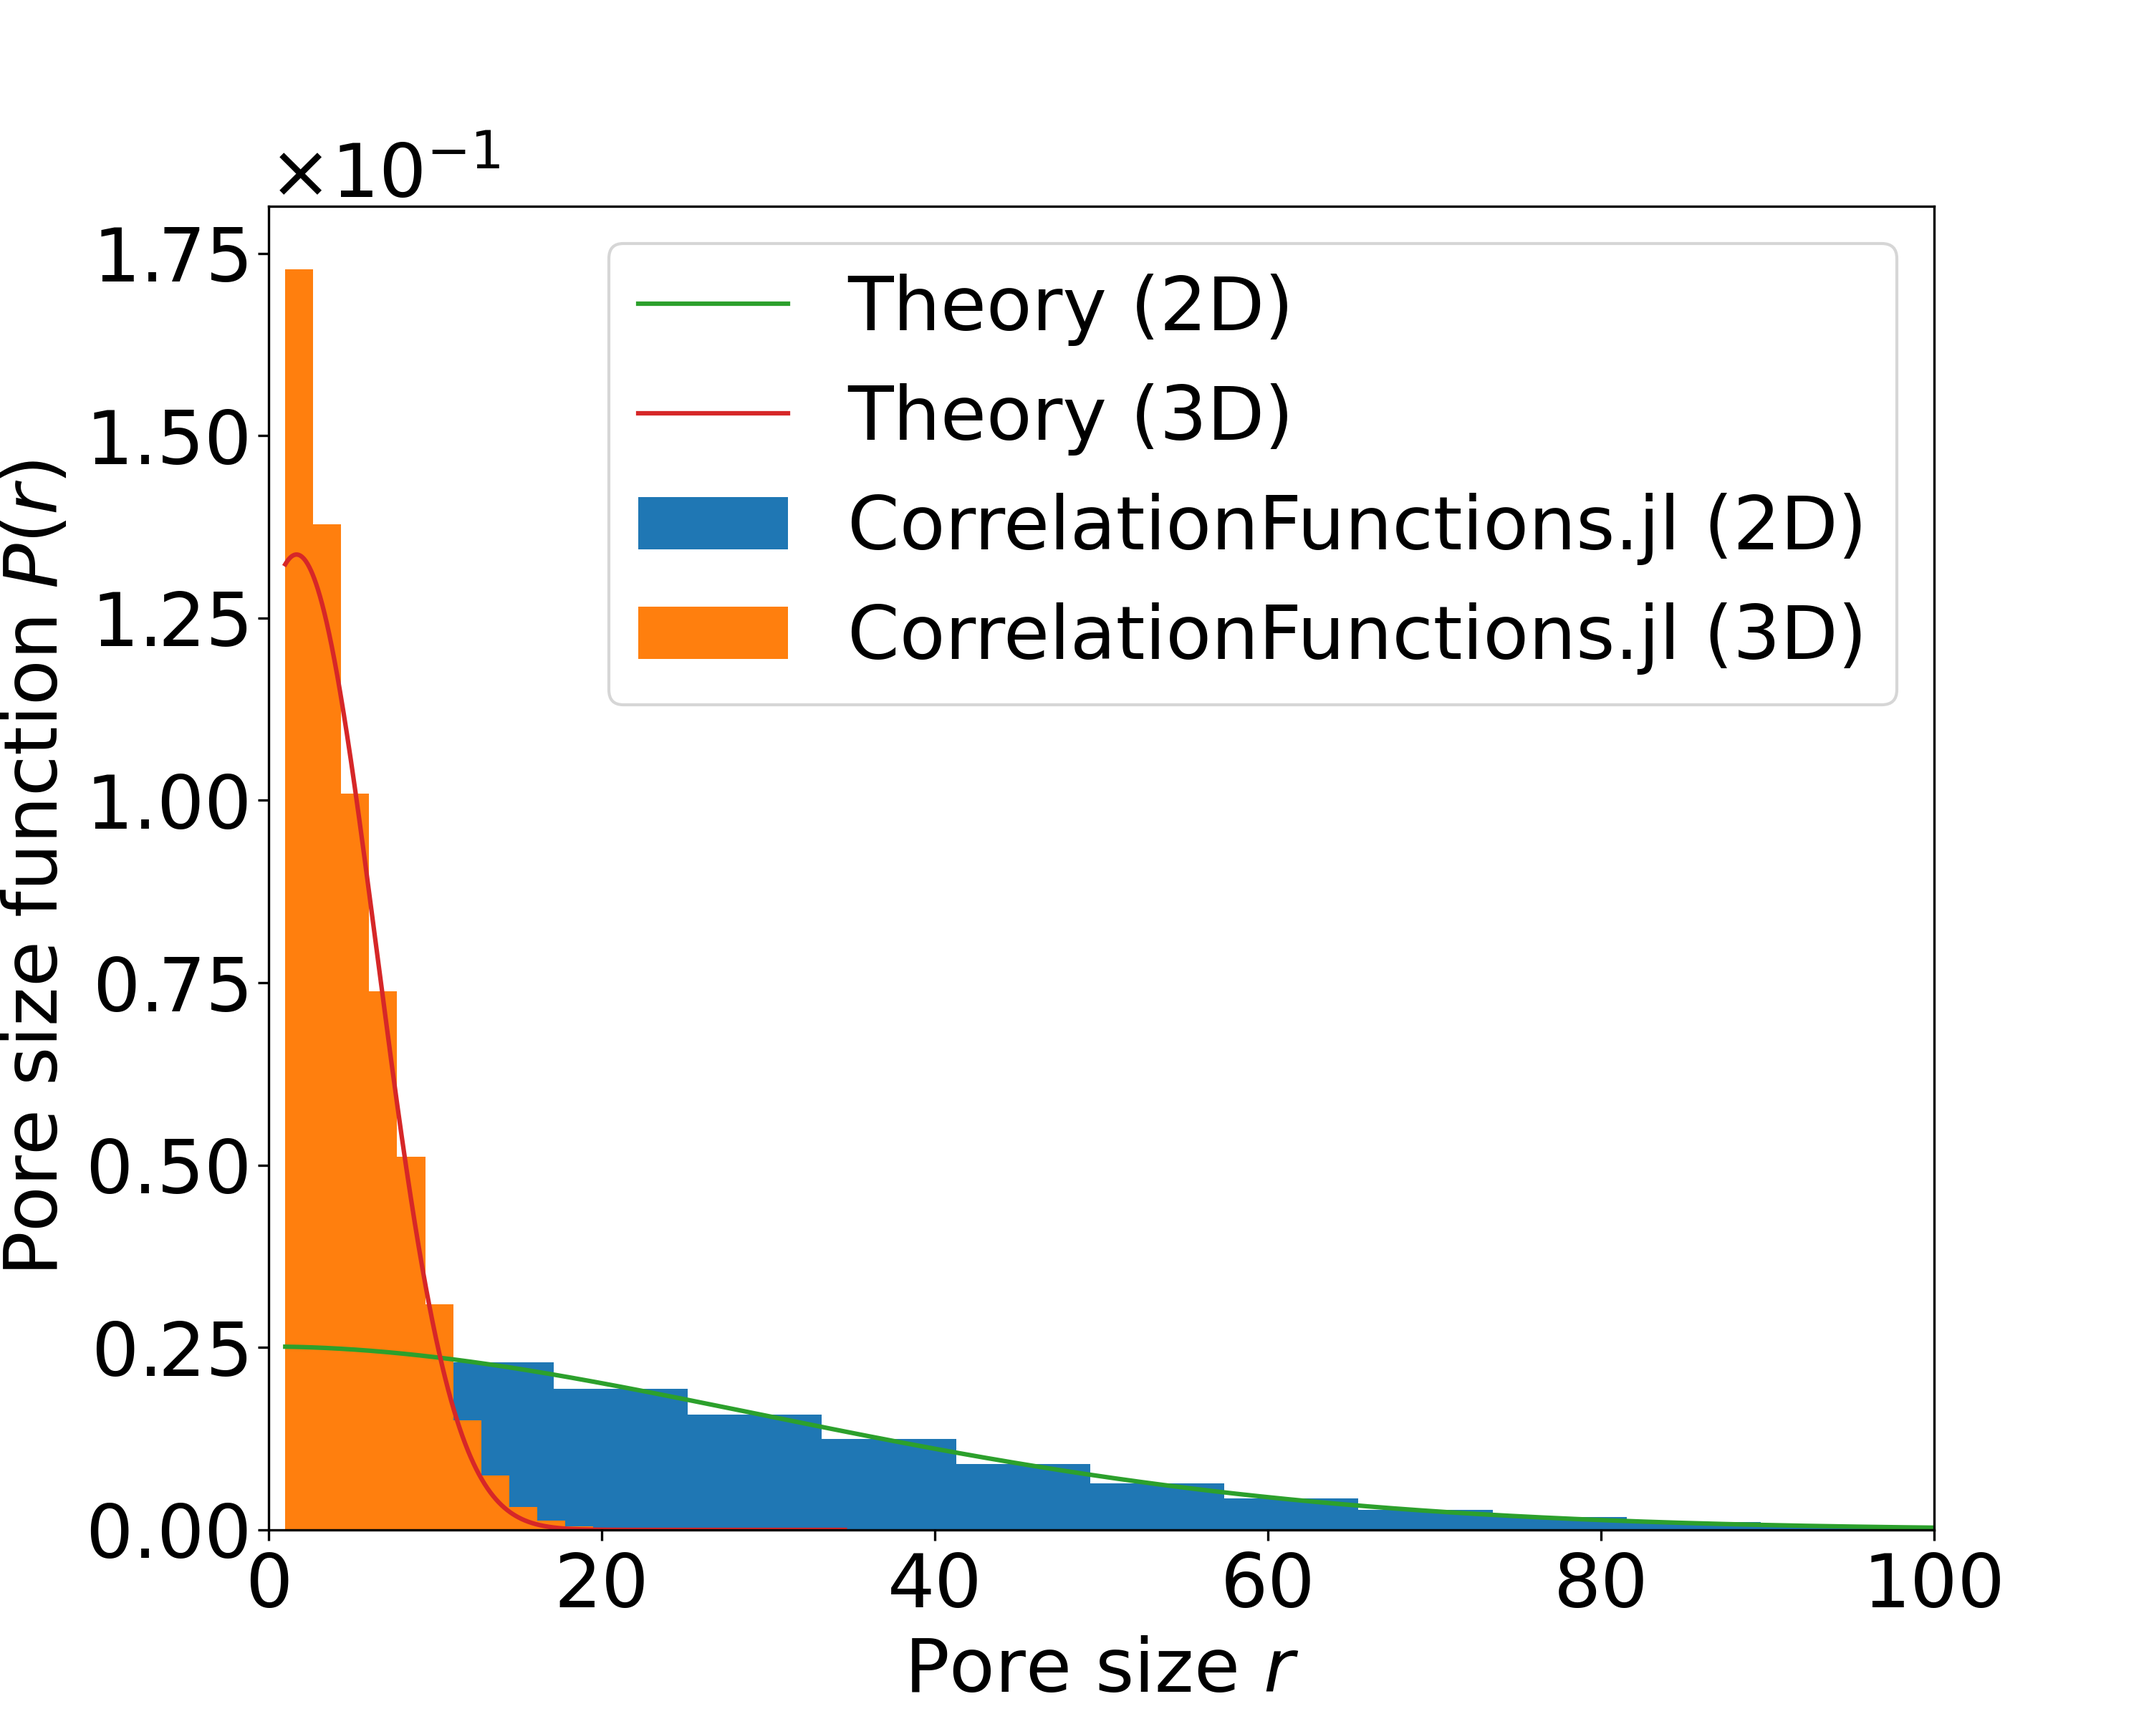
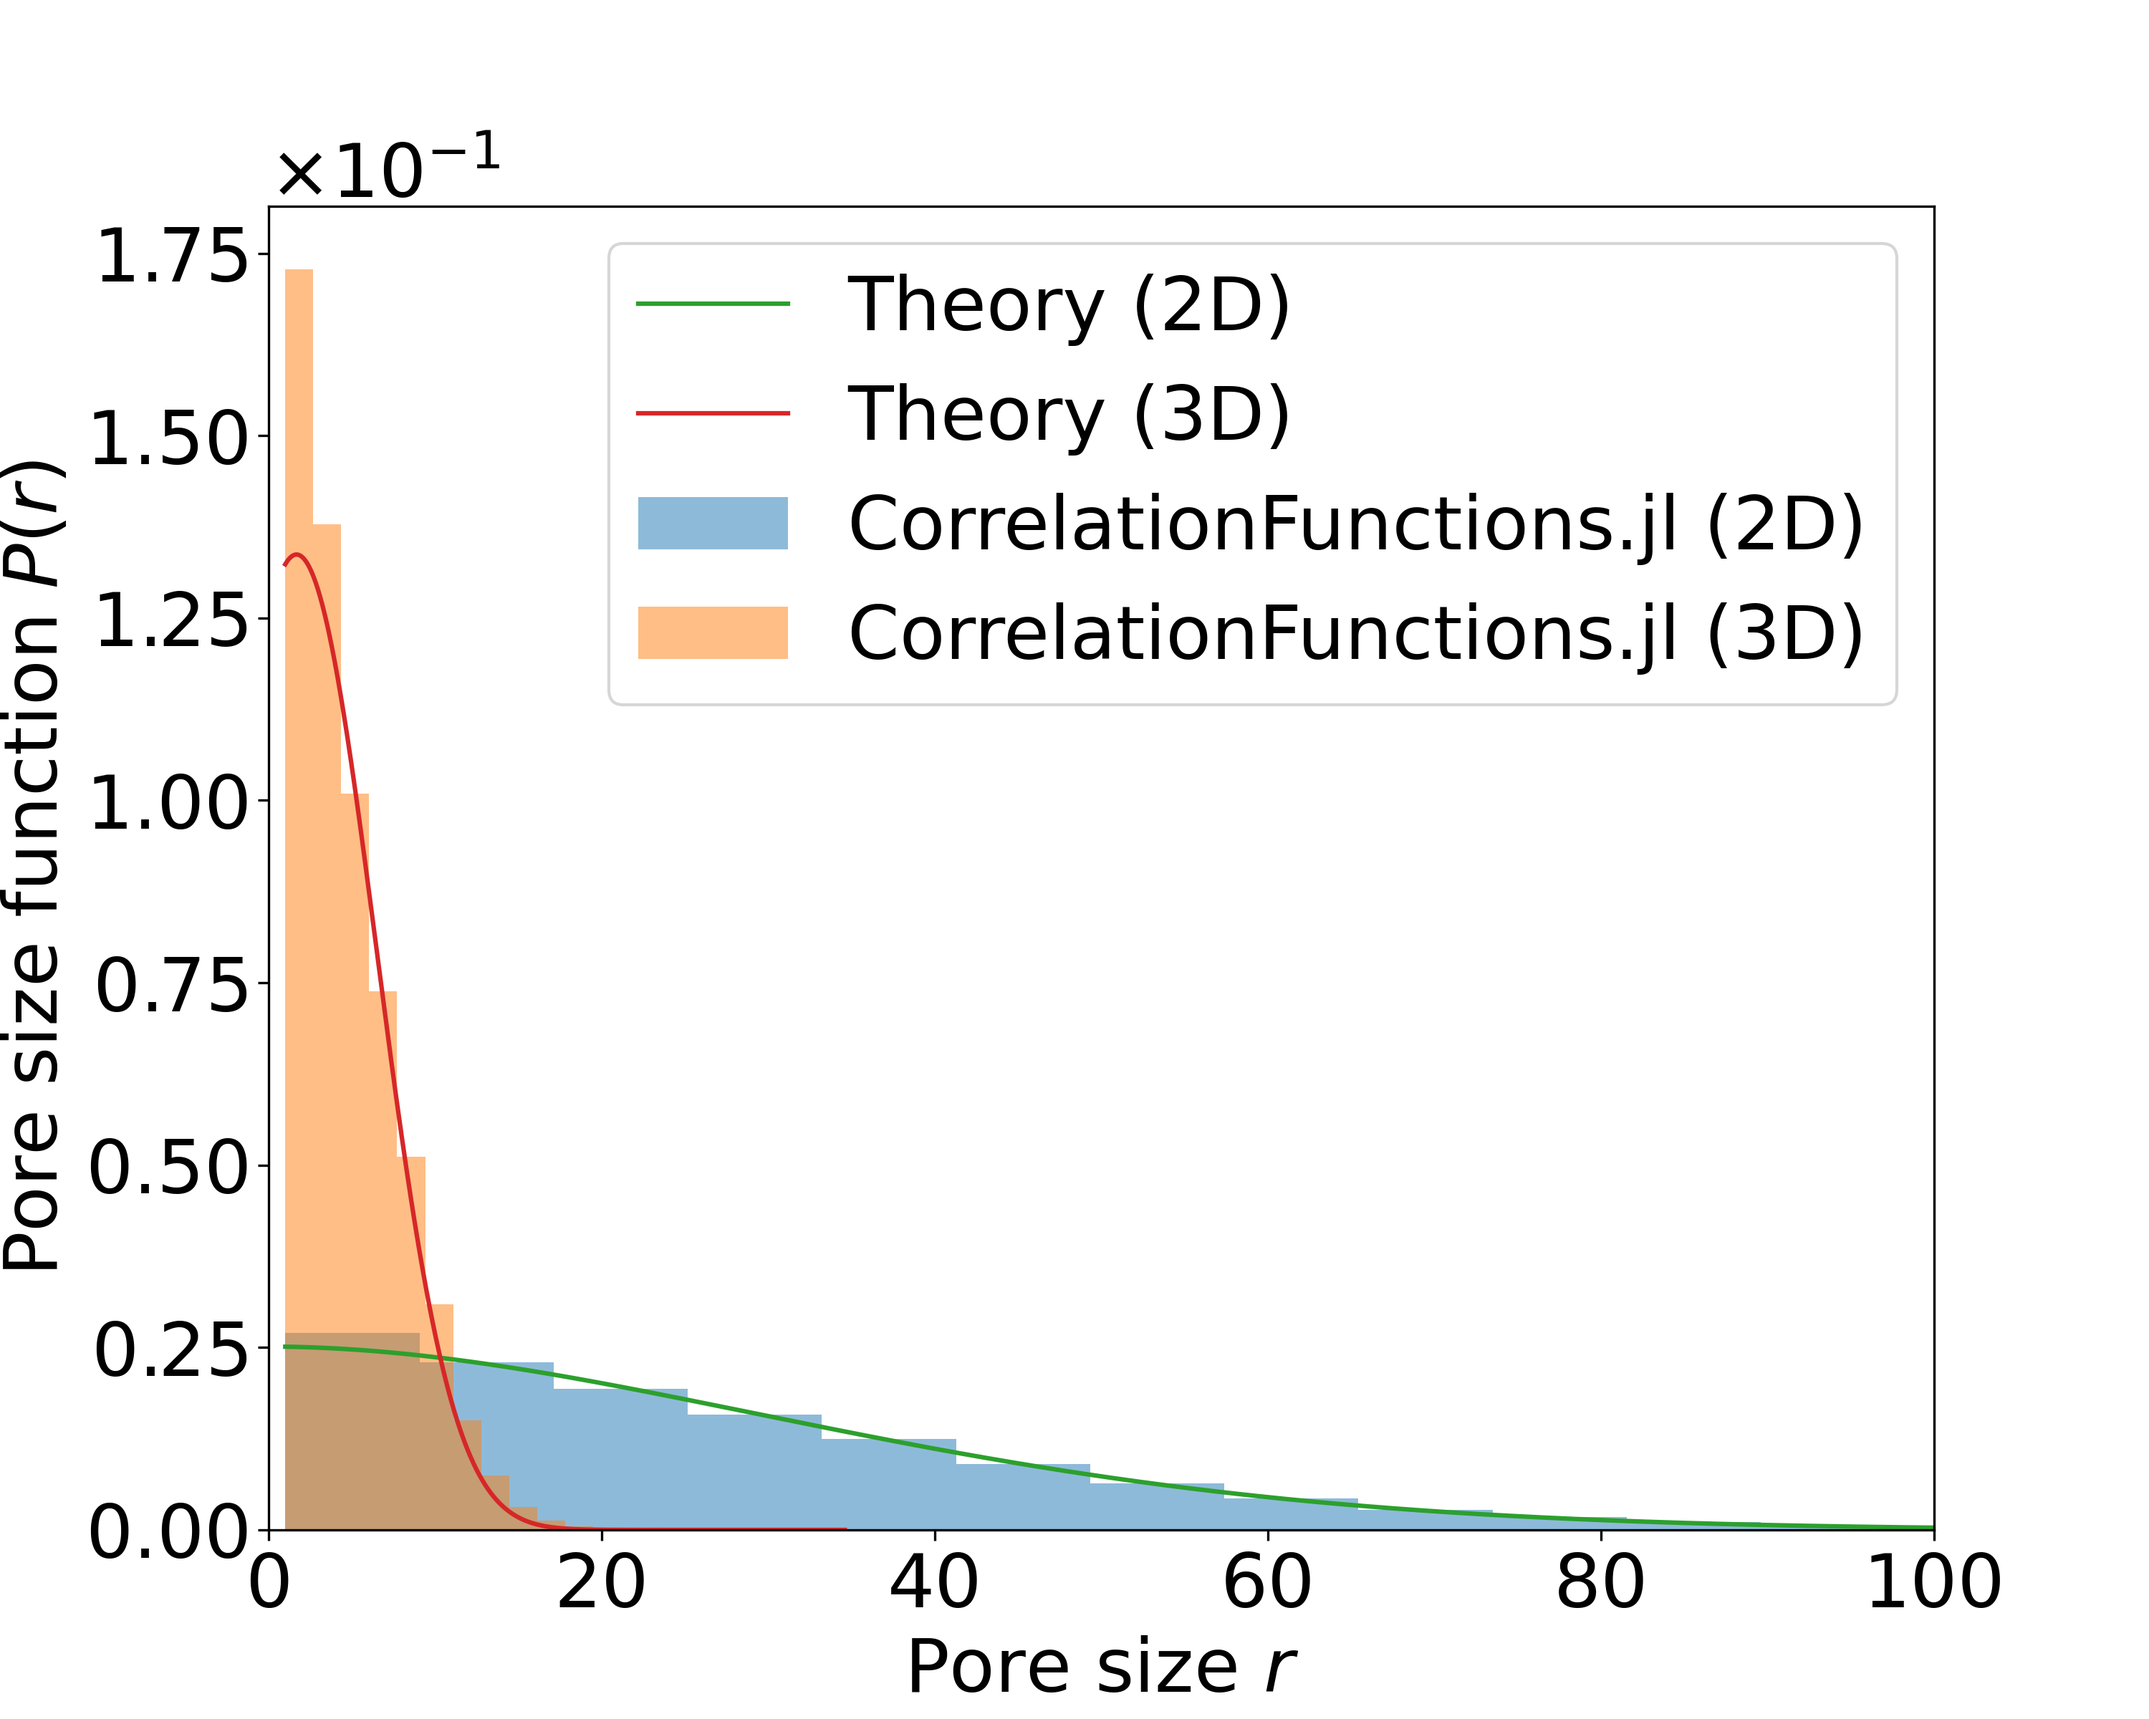
Make bars semitransparent

Changed region(s): [[0.124, 0.1562, 0.775, 0.9062], [0.279, 0.2812, 0.372, 0.4062]]

diff --git a/verification/plot.py b/verification/plot.py
@@ -78,8 +78,8 @@ ps_prob_3d = np.loadtxt('pore_size-3d-prob.dat')
 
 plt.figure(figsize = (10, 8), dpi = 300)
 plt.rc('font', size = 25)
-plt.hist(ps_hist_2d, density = True, bins = 20)
-plt.hist(ps_hist_3d, density = True, bins = 20)
+plt.hist(ps_hist_2d, density = True, bins = 20, alpha = 0.5)
+plt.hist(ps_hist_3d, density = True, bins = 20, alpha = 0.5)
 plt.plot(ps_prob_2d[:,0], ps_prob_2d[:,1])
 plt.plot(ps_prob_3d[:,0], ps_prob_3d[:,1])
 plt.ticklabel_format(axis = "y", scilimits = (0, 0), useMathText = True)
@@ -97,8 +97,8 @@ cl_prob_3d = np.loadtxt('chord_length-3d-prob.dat')
 
 plt.figure(figsize = (10, 8), dpi = 300)
 plt.rc('font', size = 25)
-plt.hist(cl_hist_2d, density = True, bins = 20)
-plt.hist(cl_hist_3d, density = True, bins = 20)
+plt.hist(cl_hist_2d, density = True, bins = 20, alpha = 0.5)
+plt.hist(cl_hist_3d, density = True, bins = 20, alpha = 0.5)
 plt.plot(cl_prob_2d[:,0], cl_prob_2d[:,1])
 plt.plot(cl_prob_3d[:,0], cl_prob_3d[:,1])
 plt.ticklabel_format(axis = "y", scilimits = (0, 0), useMathText = True)
